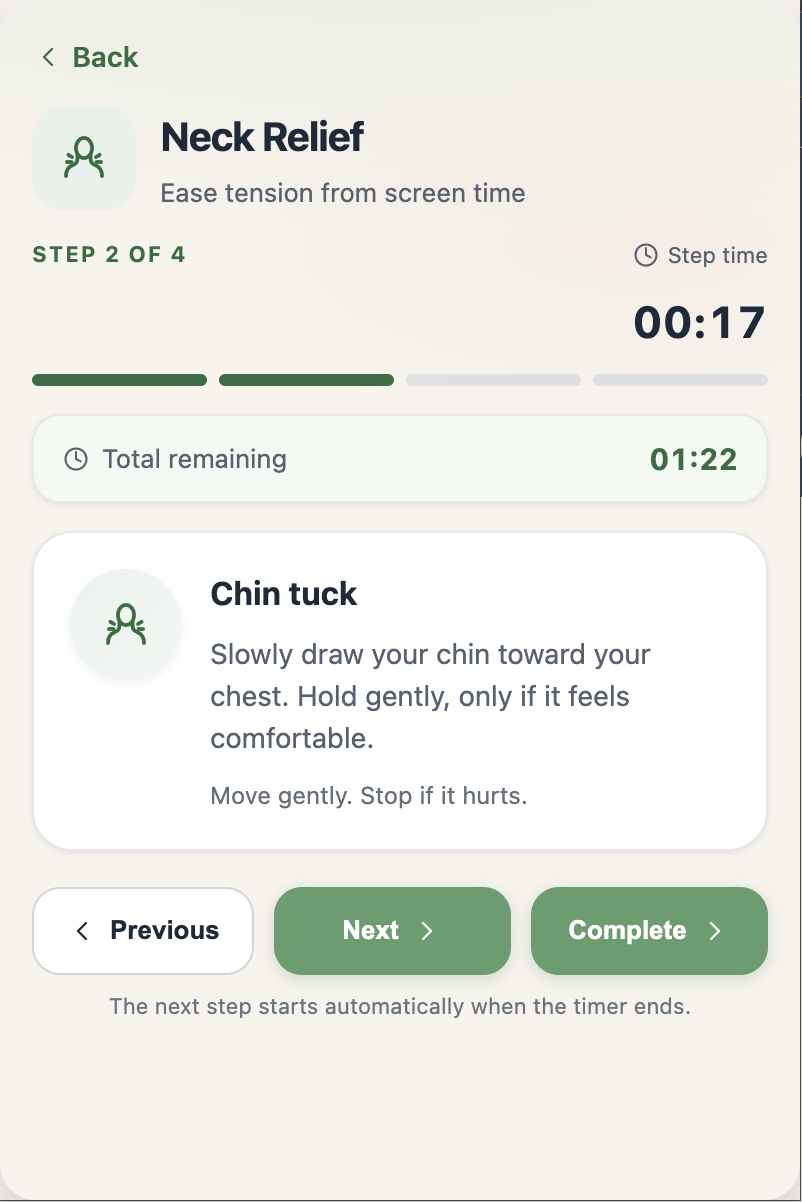
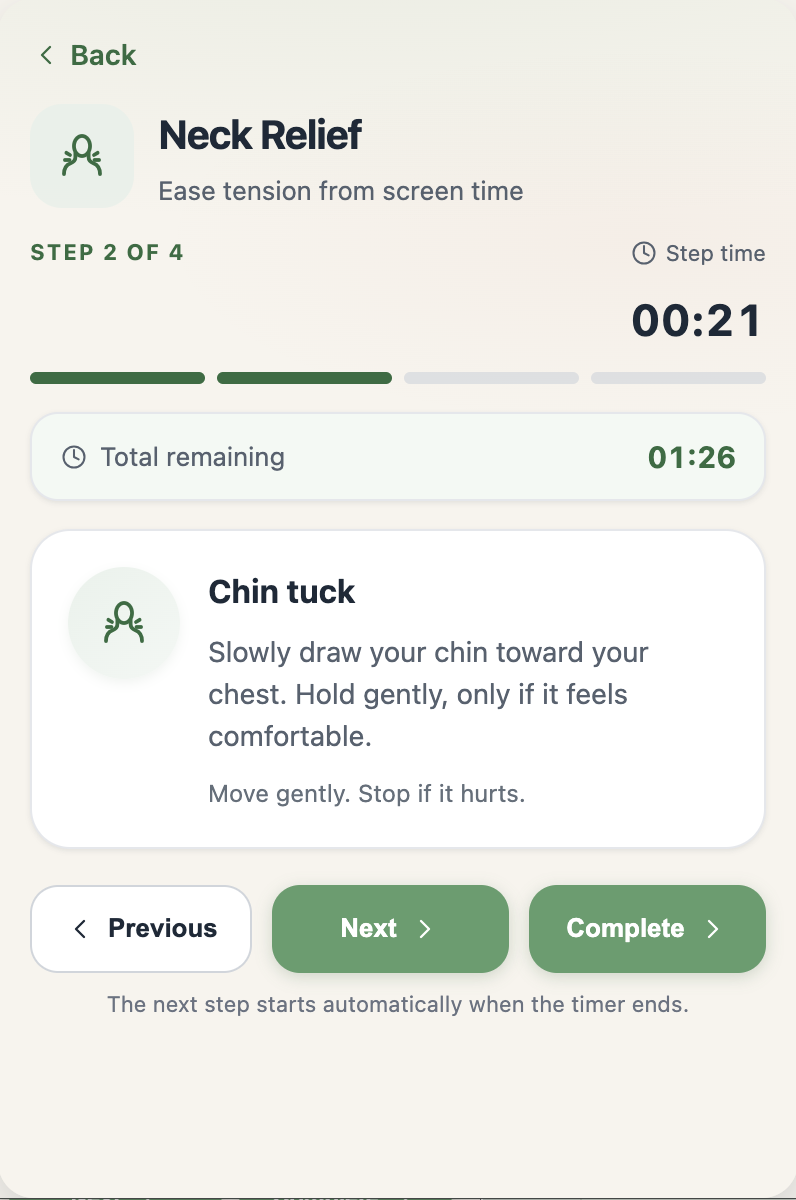
Fix product story screenshot loading

diff --git a/components/landing/landing-home.tsx b/components/landing/landing-home.tsx
@@ -294,12 +294,12 @@ export function LandingHome({ release }: { release: ChromeStoreRelease }) {
           </Reveal>
           <div className="mt-10 divide-y divide-[#e5e7eb] rounded-3xl border border-[#d1d5db] bg-white px-6 shadow-sm md:px-8">
             {FAQS.map((item) => (
-              <details key={item.question} className="group py-5">
-                <summary className="flex cursor-pointer list-none items-center justify-between gap-4 text-base font-semibold text-[#1f2937] marker:hidden">
+              <details key={item.question} className="group -mx-3 px-3 py-5 transition-colors open:bg-[#f8faf7] motion-reduce:transition-none">
+                <summary className="flex cursor-pointer list-none items-center justify-between gap-4 rounded-md text-base font-semibold text-[#1f2937] transition-colors marker:hidden hover:text-[#315f38] focus-visible:outline-2 focus-visible:outline-offset-4 focus-visible:outline-[#3f7547] motion-reduce:transition-none">
                   <span>{item.question}</span>
                   <span
                     aria-hidden="true"
-                    className="text-xl font-normal text-[#527d57] transition-transform group-open:rotate-45"
+                    className="flex h-7 w-7 shrink-0 items-center justify-center rounded-full border border-[#cdd8cc] text-lg font-normal text-[#527d57] transition-[background-color,transform] group-open:rotate-45 group-open:bg-[#e8f0e9] motion-reduce:transition-none"
                   >
                     +
                   </span>
@@ -390,7 +390,7 @@ function PrimaryButton({ href, children, external = false }: { href: string; chi
       href={href}
       target={external ? "_blank" : undefined}
       rel={external ? "noopener noreferrer" : undefined}
-      className="inline-flex h-12 items-center justify-center rounded-full bg-[#3f7547] px-7 text-sm font-semibold text-white shadow-sm transition-[background-color,transform,box-shadow] duration-200 hover:bg-[#315f38] hover:shadow-md focus-visible:outline-2 focus-visible:outline-offset-2 focus-visible:outline-[#3f7547] active:scale-[0.98]"
+      className="inline-flex h-12 items-center justify-center rounded-full bg-[#3f7547] px-7 text-sm font-semibold text-white shadow-sm transition-[background-color,transform,box-shadow] duration-200 hover:bg-[#315f38] hover:shadow-md focus-visible:outline-2 focus-visible:outline-offset-2 focus-visible:outline-[#3f7547] active:scale-[0.98] motion-reduce:transition-none motion-reduce:active:scale-100"
     >
       {children}
     </Link>
@@ -407,7 +407,7 @@ function SecondaryButton({
   return (
     <SmoothAnchor
       sectionId={sectionId}
-      className="inline-flex h-12 items-center justify-center rounded-full border border-[#bfc9bd] bg-transparent px-7 text-sm font-semibold text-[#315f38] transition-[background-color,transform,border-color] duration-200 hover:border-[#96aa97] hover:bg-white/60 focus-visible:outline-2 focus-visible:outline-offset-2 focus-visible:outline-[#3f7547] active:scale-[0.98]"
+      className="inline-flex h-12 items-center justify-center rounded-full border border-[#bfc9bd] bg-transparent px-7 text-sm font-semibold text-[#315f38] transition-[background-color,transform,border-color] duration-200 hover:border-[#96aa97] hover:bg-white/60 focus-visible:outline-2 focus-visible:outline-offset-2 focus-visible:outline-[#3f7547] active:scale-[0.98] motion-reduce:transition-none motion-reduce:active:scale-100"
     >
       {children}
     </SmoothAnchor>
@@ -488,10 +488,12 @@ function ProductStoryExplorer() {
           return (
             <button
               key={story.number}
+              id={`product-story-trigger-${story.number}`}
               type="button"
               aria-pressed={selected}
+              aria-controls="product-story-view"
               onClick={() => setActiveIndex(index)}
-              className={`group relative grid w-full grid-cols-[2.5rem_1fr] gap-4 px-4 py-6 text-left transition-colors duration-200 focus-visible:z-10 focus-visible:outline-2 focus-visible:outline-offset-[-2px] focus-visible:outline-[#3f7547] sm:px-6 lg:px-4 lg:py-7 ${
+              className={`group relative grid w-full grid-cols-[2.5rem_1fr] gap-4 px-4 py-6 text-left transition-colors duration-200 focus-visible:z-10 focus-visible:outline-2 focus-visible:outline-offset-[-2px] focus-visible:outline-[#3f7547] motion-reduce:transition-none sm:px-6 lg:px-4 lg:py-7 ${
                 selected ? "bg-[#e8eee6]" : "hover:bg-white/55"
               }`}
             >
@@ -509,7 +511,7 @@ function ProductStoryExplorer() {
                   </span>
                   <span
                     aria-hidden="true"
-                    className={`h-2.5 w-2.5 shrink-0 rounded-full transition-[background-color,transform] ${
+                    className={`h-2.5 w-2.5 shrink-0 rounded-full transition-[background-color,transform] motion-reduce:transform-none motion-reduce:transition-none ${
                       selected ? "scale-100 bg-[#3f7547]" : "scale-75 bg-[#c4cbc3] group-hover:scale-100"
                     }`}
                   />
@@ -525,6 +527,8 @@ function ProductStoryExplorer() {
 
       <div
         id="product-story-view"
+        role="region"
+        aria-labelledby={`product-story-trigger-${activeStory.number}`}
         aria-live="polite"
         className="relative flex min-h-[520px] items-center justify-center overflow-hidden bg-[#dfe8dc] px-6 py-10 sm:min-h-[610px] sm:px-10 lg:min-h-[640px]"
       >
@@ -547,6 +551,7 @@ function ProductStoryExplorer() {
             src={activeStory.image}
             alt={activeStory.alt}
             fill
+            unoptimized
             sizes="(min-width: 1024px) 360px, (min-width: 640px) 340px, 286px"
             className="object-cover object-top"
           />
@@ -606,7 +611,7 @@ function InstallAssurance({ children }: { children: React.ReactNode }) {
 
 function FeatureCard({ num, title, body }: { num: string; title: string; body: string }) {
   return (
-    <div className="flex h-full gap-4 rounded-2xl border border-[#d1d5db] bg-white p-6 shadow-sm transition-[box-shadow,transform,border-color] duration-200 hover:-translate-y-0.5 hover:border-[#c5d0c6] hover:shadow-md">
+    <div className="flex h-full gap-4 rounded-2xl border border-[#d1d5db] bg-white p-6 shadow-sm">
       <span className="font-mono text-xs font-semibold text-[#6a9d6e]">{num}</span>
       <div>
         <h3 className="text-[15px] font-semibold text-[#1f2937]">{title}</h3>
@@ -618,7 +623,10 @@ function FeatureCard({ num, title, body }: { num: string; title: string; body: s
 
 function FooterLink({ href, children }: { href: string; children: React.ReactNode }) {
   return (
-    <Link href={href} className="transition-colors duration-200 hover:text-[#1f2937]">
+    <Link
+      href={href}
+      className="rounded-sm transition-colors duration-200 hover:text-[#1f2937] focus-visible:outline-2 focus-visible:outline-offset-4 focus-visible:outline-[#3f7547] motion-reduce:transition-none"
+    >
       {children}
     </Link>
   )

diff --git a/components/landing/landing-nav.tsx b/components/landing/landing-nav.tsx
@@ -3,7 +3,7 @@
 import Link from "next/link"
 import { useReducedMotion } from "framer-motion"
 import { Menu, X } from "lucide-react"
-import { useCallback, useEffect, useState } from "react"
+import { useCallback, useEffect, useRef, useState } from "react"
 import { scrollToSection } from "@/components/landing/scroll-to"
 import { useActiveSection } from "@/components/landing/use-active-section"
 import { BrandLockup } from "@/components/brand-lockup"
@@ -29,16 +29,27 @@ export function LandingNav({
   const reducedMotion = useReducedMotion()
   const active = useActiveSection(SECTION_IDS)
   const [menuOpen, setMenuOpen] = useState(false)
+  const menuButtonRef = useRef<HTMLButtonElement>(null)
 
   useEffect(() => {
     if (!menuOpen) return
 
     const closeOnEscape = (event: KeyboardEvent) => {
-      if (event.key === "Escape") setMenuOpen(false)
+      if (event.key !== "Escape") return
+      setMenuOpen(false)
+      menuButtonRef.current?.focus()
+    }
+    const desktopQuery = window.matchMedia("(min-width: 768px)")
+    const closeAtDesktop = (event: MediaQueryListEvent) => {
+      if (event.matches) setMenuOpen(false)
     }
 
     window.addEventListener("keydown", closeOnEscape)
-    return () => window.removeEventListener("keydown", closeOnEscape)
+    desktopQuery.addEventListener("change", closeAtDesktop)
+    return () => {
+      window.removeEventListener("keydown", closeOnEscape)
+      desktopQuery.removeEventListener("change", closeAtDesktop)
+    }
   }, [menuOpen])
 
   const navigate = useCallback(
@@ -65,18 +76,19 @@ export function LandingNav({
               href={primaryHref}
               target={primaryExternal ? "_blank" : undefined}
               rel={primaryExternal ? "noopener noreferrer" : undefined}
-              className="hidden h-10 shrink-0 items-center justify-center rounded-full bg-[#3f7547] px-5 text-sm font-semibold text-white shadow-sm transition-[background-color,transform] hover:bg-[#315f38] focus-visible:outline-2 focus-visible:outline-offset-2 focus-visible:outline-[#3f7547] active:scale-[0.98] sm:inline-flex"
+              className="hidden h-10 shrink-0 items-center justify-center rounded-full bg-[#3f7547] px-5 text-sm font-semibold text-white shadow-sm transition-[background-color,transform] hover:bg-[#315f38] focus-visible:outline-2 focus-visible:outline-offset-2 focus-visible:outline-[#3f7547] active:scale-[0.98] motion-reduce:transition-none motion-reduce:active:scale-100 sm:inline-flex"
             >
               {primaryLabel}
             </Link>
 
             <button
+              ref={menuButtonRef}
               type="button"
               aria-expanded={menuOpen}
               aria-controls="landing-mobile-menu"
               aria-label={menuOpen ? "Close navigation" : "Open navigation"}
               onClick={() => setMenuOpen((open) => !open)}
-              className="inline-flex h-10 w-10 items-center justify-center rounded-full border border-[#cfcdc5] bg-white text-[#1f2937] transition-colors hover:bg-[#efebe2] focus-visible:outline-2 focus-visible:outline-offset-2 focus-visible:outline-[#3f7547] md:hidden"
+              className="inline-flex h-10 w-10 items-center justify-center rounded-full border border-[#cfcdc5] bg-white text-[#1f2937] transition-[background-color,transform] hover:bg-[#efebe2] focus-visible:outline-2 focus-visible:outline-offset-2 focus-visible:outline-[#3f7547] active:scale-95 motion-reduce:transition-none motion-reduce:active:scale-100 md:hidden"
             >
               {menuOpen ? <X className="h-5 w-5" aria-hidden="true" /> : <Menu className="h-5 w-5" aria-hidden="true" />}
             </button>
@@ -127,7 +139,7 @@ function SectionLinks({
               navigate(link.id)
             }}
             className={[
-              "relative whitespace-nowrap rounded-lg px-3 py-2.5 font-medium transition-colors focus-visible:outline-2 focus-visible:outline-offset-1 focus-visible:outline-[#3f7547] md:rounded-none md:px-3 md:py-6",
+              "relative whitespace-nowrap rounded-lg px-3 py-2.5 font-medium transition-colors focus-visible:outline-2 focus-visible:outline-offset-1 focus-visible:outline-[#3f7547] motion-reduce:transition-none md:rounded-none md:px-3 md:py-6",
               isActive
                 ? "bg-[#e8eee6] text-[#315f38] md:bg-transparent md:after:absolute md:after:inset-x-3 md:after:bottom-0 md:after:h-0.5 md:after:bg-[#3f7547]"
                 : "hover:bg-white/70 hover:text-[#1f2937] md:hover:bg-transparent",

diff --git a/components/landing/scroll-to.ts b/components/landing/scroll-to.ts
@@ -9,16 +9,37 @@ export function getLandingNavOffset() {
 
 export function scrollToSection(
   id: string,
-  options?: { offset?: number; reducedMotion?: boolean }
+  options?: {
+    offset?: number
+    reducedMotion?: boolean
+    focus?: boolean
+    updateHash?: boolean
+  }
 ) {
   const el = document.getElementById(id)
   if (!el) return
 
   const offset = options?.offset ?? getLandingNavOffset()
   const top = el.getBoundingClientRect().top + window.scrollY - offset
+  const finishNavigation = () => {
+    if (options?.updateHash !== false && window.location.hash !== `#${id}`) {
+      window.history.replaceState(null, "", `#${id}`)
+    }
+
+    if (options?.focus === false) return
+
+    const hadTabIndex = el.hasAttribute("tabindex")
+    if (!hadTabIndex) el.tabIndex = -1
+    el.focus({ preventScroll: true })
+
+    if (!hadTabIndex) {
+      el.addEventListener("blur", () => el.removeAttribute("tabindex"), { once: true })
+    }
+  }
 
   if (options?.reducedMotion) {
     window.scrollTo({ top, behavior: "auto" })
+    finishNavigation()
     return
   }
 
@@ -26,5 +47,6 @@ export function scrollToSection(
     duration: 0.55,
     ease: [0.22, 1, 0.36, 1],
     onUpdate: (y) => window.scrollTo(0, y),
+    onComplete: finishNavigation,
   })
 }
